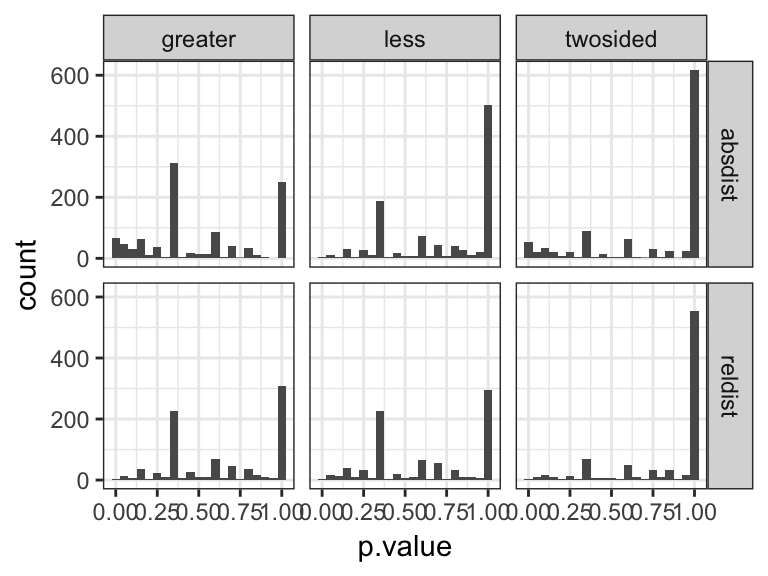
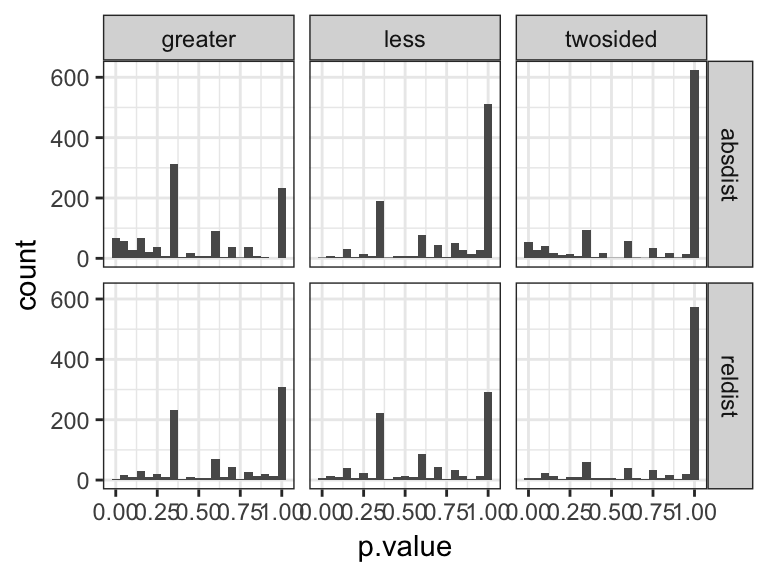
re-pkg

diff --git a/docs/articles/interval-stats.html b/docs/articles/interval-stats.html
@@ -51,7 +51,7 @@
       <h1>Interval statistics</h1>
                         <h4 class="author">Jay Hesselberth</h4>
             
-            <h4 class="date">November 17 2016</h4>
+            <h4 class="date">November 19 2016</h4>
           </div>
 
     
@@ -59,7 +59,10 @@
 <div class="contents">
 <p><code>valr</code> can be used to explore relationships between sets of intervals. Here we explore the relationship between transcription start sites and repetitive elements in the human genome.</p>
 <div class="sourceCode"><pre class="sourceCode r"><code class="sourceCode r"><span class="kw">library</span>(valr)
-<span class="kw">library</span>(tidyverse)
+<span class="kw">library</span>(dplyr)
+<span class="kw">library</span>(ggplot2)
+<span class="kw">library</span>(tidyr)
+<span class="kw">library</span>(broom)
 
 <span class="co"># load repeats and genes. Data in the valr package is restricted to chr22; the entire</span>
 <span class="co"># files can be downloaded from UCSC.</span>
@@ -114,22 +117,22 @@ res &lt;-<span class="st"> </span><span class="kw">bind_rows</span>(obs_stats, s
 <span class="st">  </span><span class="kw">na.omit</span>()
 
 res
-<span class="co">#&gt; Source: local data frame [16,777 x 5]</span>
+<span class="co">#&gt; Source: local data frame [16,783 x 5]</span>
 <span class="co">#&gt; Groups: name, stat [1,917]</span>
 <span class="co">#&gt; </span>
-<span class="co">#&gt;     name    stat   .id         obs         shuf</span>
-<span class="co">#&gt;    &lt;chr&gt;   &lt;chr&gt; &lt;int&gt;       &lt;dbl&gt;        &lt;dbl&gt;</span>
-<span class="co">#&gt; 1   (A)n absdist     1 126.4610794 3.782088e+02</span>
-<span class="co">#&gt; 2   (A)n absdist     2   5.6050746 3.489827e+02</span>
-<span class="co">#&gt; 3   (A)n absdist     3   1.0093609 3.149131e+02</span>
-<span class="co">#&gt; 4   (A)n absdist     4   0.1585214 2.553528e+02</span>
-<span class="co">#&gt; 5   (A)n absdist     5   1.0203258 2.344293e+02</span>
-<span class="co">#&gt; 6   (A)n absdist     6   0.5561215 1.022334e+02</span>
-<span class="co">#&gt; 7   (A)n absdist     7   0.3557903 8.899137e+01</span>
-<span class="co">#&gt; 8   (A)n absdist     8   0.2337938 6.022942e+01</span>
-<span class="co">#&gt; 9   (A)n absdist     9   0.6456680 1.694344e+00</span>
-<span class="co">#&gt; 10  (A)n absdist    10   3.3093910 6.173914e-04</span>
-<span class="co">#&gt; # ... with 16,767 more rows</span></code></pre></div>
+<span class="co">#&gt;     name    stat   .id         obs     shuf</span>
+<span class="co">#&gt;    &lt;chr&gt;   &lt;chr&gt; &lt;int&gt;       &lt;dbl&gt;    &lt;dbl&gt;</span>
+<span class="co">#&gt; 1   (A)n absdist     1 126.4610794 398.3905</span>
+<span class="co">#&gt; 2   (A)n absdist     2   5.6050746 390.5459</span>
+<span class="co">#&gt; 3   (A)n absdist     3   1.0093609 390.1060</span>
+<span class="co">#&gt; 4   (A)n absdist     4   0.1585214 338.5905</span>
+<span class="co">#&gt; 5   (A)n absdist     5   1.0203258 325.9782</span>
+<span class="co">#&gt; 6   (A)n absdist     6   0.5561215 296.1639</span>
+<span class="co">#&gt; 7   (A)n absdist     7   0.3557903 234.3513</span>
+<span class="co">#&gt; 8   (A)n absdist     8   0.2337938 186.5005</span>
+<span class="co">#&gt; 9   (A)n absdist     9   0.6456680 155.8682</span>
+<span class="co">#&gt; 10  (A)n absdist    10   3.3093910 126.6239</span>
+<span class="co">#&gt; # ... with 16,773 more rows</span></code></pre></div>
 <p>Now that the data are formatted, we can use <code>ks.test()</code> to determine whether there are significant differences between the observed and shuffled data for each group.</p>
 <div class="sourceCode"><pre class="sourceCode r"><code class="sourceCode r">pvals &lt;-<span class="st"> </span>res %&gt;%<span class="st"> </span><span class="kw">do</span>(<span class="dt">twosided =</span> broom::<span class="kw">tidy</span>(<span class="kw">ks.test</span>(.$obs, .$shuf)),
                     <span class="dt">less =</span> broom::<span class="kw">tidy</span>(<span class="kw">ks.test</span>(.$obs, .$shuf, <span class="dt">alternative =</span> <span class="st">'less'</span>)),
@@ -143,11 +146,9 @@ res
 <span class="st">  </span><span class="kw">geom_histogram</span>(<span class="dt">binwidth =</span> <span class="fl">0.05</span>) +
 <span class="st">  </span><span class="kw">facet_grid</span>(stat ~<span class="st"> </span>alt) +<span class="st"> </span><span class="kw">theme_bw</span>()</code></pre></div>
 <p><img src="img/interval-stats-pvalues-1.png" width="384" style="display: block; margin: auto;"></p>
-<p>We can also assess false discovery rates (q.values) using the <code>qvalue</code> library.</p>
-<div class="sourceCode"><pre class="sourceCode r"><code class="sourceCode r"><span class="kw">library</span>(qvalue)
-
-pvals &lt;-<span class="st"> </span><span class="kw">group_by</span>(pvals, stat, alt) %&gt;%
-<span class="st">  </span><span class="kw">mutate</span>(<span class="dt">q.value =</span> <span class="kw">qvalue</span>(p.value)$qvalues) %&gt;%
+<p>We can also assess false discovery rates (q.values) using <code>p.adjust()</code>.</p>
+<div class="sourceCode"><pre class="sourceCode r"><code class="sourceCode r">pvals &lt;-<span class="st"> </span><span class="kw">group_by</span>(pvals, stat, alt) %&gt;%
+<span class="st">  </span><span class="kw">mutate</span>(<span class="dt">q.value =</span> <span class="kw">p.adjust</span>(p.value)) %&gt;%
 <span class="st">  </span><span class="kw">ungroup</span>() %&gt;%
 <span class="st">  </span><span class="kw">arrange</span>(q.value)</code></pre></div>
 <p>Finally we can visualize these results using <code>stat_ecdf()</code>.</p>

diff --git a/docs/articles/valr.html b/docs/articles/valr.html
@@ -51,7 +51,7 @@
       <h1>valr overview</h1>
                         <h4 class="author">Jay Hesselberth <a href="mailto:jay.hesselberth@gmail.com">jay.hesselberth@gmail.com</a></h4>
             
-            <h4 class="date">2016-11-17</h4>
+            <h4 class="date">2016-11-19</h4>
           </div>
 
     
@@ -319,16 +319,16 @@ shuffled
 <span class="co">#&gt; # A tibble: 100 &times; 3</span>
 <span class="co">#&gt;      rep                  data      jaccard</span>
 <span class="co">#&gt;    &lt;chr&gt;                &lt;list&gt;        &lt;dbl&gt;</span>
-<span class="co">#&gt; 1      1 &lt;tibble [10,000 &times; 6]&gt; 0.0002056146</span>
-<span class="co">#&gt; 2      2 &lt;tibble [10,000 &times; 6]&gt; 0.0003369549</span>
-<span class="co">#&gt; 3      3 &lt;tibble [10,000 &times; 6]&gt; 0.0002613681</span>
-<span class="co">#&gt; 4      4 &lt;tibble [10,000 &times; 6]&gt; 0.0001321121</span>
-<span class="co">#&gt; 5      5 &lt;tibble [10,000 &times; 6]&gt; 0.0003239432</span>
-<span class="co">#&gt; 6      6 &lt;tibble [10,000 &times; 6]&gt; 0.0004433328</span>
-<span class="co">#&gt; 7      7 &lt;tibble [10,000 &times; 6]&gt; 0.0005445677</span>
-<span class="co">#&gt; 8      8 &lt;tibble [10,000 &times; 6]&gt; 0.0002489779</span>
-<span class="co">#&gt; 9      9 &lt;tibble [10,000 &times; 6]&gt; 0.0003421184</span>
-<span class="co">#&gt; 10    10 &lt;tibble [10,000 &times; 6]&gt; 0.0003410857</span>
+<span class="co">#&gt; 1      1 &lt;tibble [10,000 &times; 6]&gt; 0.0003448034</span>
+<span class="co">#&gt; 2      2 &lt;tibble [10,000 &times; 6]&gt; 0.0003879722</span>
+<span class="co">#&gt; 3      3 &lt;tibble [10,000 &times; 6]&gt; 0.0001653521</span>
+<span class="co">#&gt; 4      4 &lt;tibble [10,000 &times; 6]&gt; 0.0002541404</span>
+<span class="co">#&gt; 5      5 &lt;tibble [10,000 &times; 6]&gt; 0.0008018792</span>
+<span class="co">#&gt; 6      6 &lt;tibble [10,000 &times; 6]&gt; 0.0005125422</span>
+<span class="co">#&gt; 7      7 &lt;tibble [10,000 &times; 6]&gt; 0.0001806308</span>
+<span class="co">#&gt; 8      8 &lt;tibble [10,000 &times; 6]&gt; 0.0004311447</span>
+<span class="co">#&gt; 9      9 &lt;tibble [10,000 &times; 6]&gt; 0.0002303932</span>
+<span class="co">#&gt; 10    10 &lt;tibble [10,000 &times; 6]&gt; 0.0003819820</span>
 <span class="co">#&gt; # ... with 90 more rows</span></code></pre></div>
 </div>
 </div>

diff --git a/docs/news/index.html b/docs/news/index.html
@@ -94,13 +94,13 @@
     </div>
 
     <div class="contents">
-    <div id="valr-0-1" class="section level1">
+    <div id="valr-0-1-0" class="section level1">
 <h1 class="hasAnchor">
-<a href="#valr-0-1" class="anchor"> </a>valr 0.1</h1>
+<a href="#valr-0-1-0" class="anchor"> </a>valr 0.1.0</h1>
 <div id="major-changes" class="section level2">
 <h2 class="hasAnchor">
 <a href="#major-changes" class="anchor"> </a>Major changes</h2>
-<ul><li>initial release</li>
+<ul><li>initial release on CRAN</li>
 </ul></div>
 </div>
     </div>
@@ -110,7 +110,7 @@
     <div id="tocnav">
       <h2>Contents</h2>
       <ul class="nav nav-pills nav-stacked">
-        <li><a href="#valr-0-1">0.1</a></li>
+        <li><a href="#valr-0-1-0">0.1.0</a></li>
       </ul>
     </div>
   </div>

diff --git a/docs/articles/index.html b/docs/articles/index.html
@@ -87,7 +87,7 @@
       </header>
 
       <div class="page-header">
-  <h1>Vignette reference <small>version&nbsp;0.1</small></h1>
+  <h1>Vignette reference <small>version&nbsp;0.1.0</small></h1>
 </div>
 
 <div class="row">
@@ -97,7 +97,6 @@
       <p class="section-desc"></p>
 
       <ul>
-        <li><a href="examples.html">valr examples</a></li>
         <li><a href="interval-stats.html">Interval statistics</a></li>
         <li><a href="valr.html">valr overview</a></li>
       </ul>

diff --git a/docs/reference/index.html b/docs/reference/index.html
@@ -90,7 +90,7 @@
   <div class="col-md-9">
     <div class="page-header">
       <h1>Function reference</h1>
-      <h4>version&nbsp;0.1</h4>
+      <h4>version&nbsp;0.1.0</h4>
     </div>
 
     <div class="contents">
